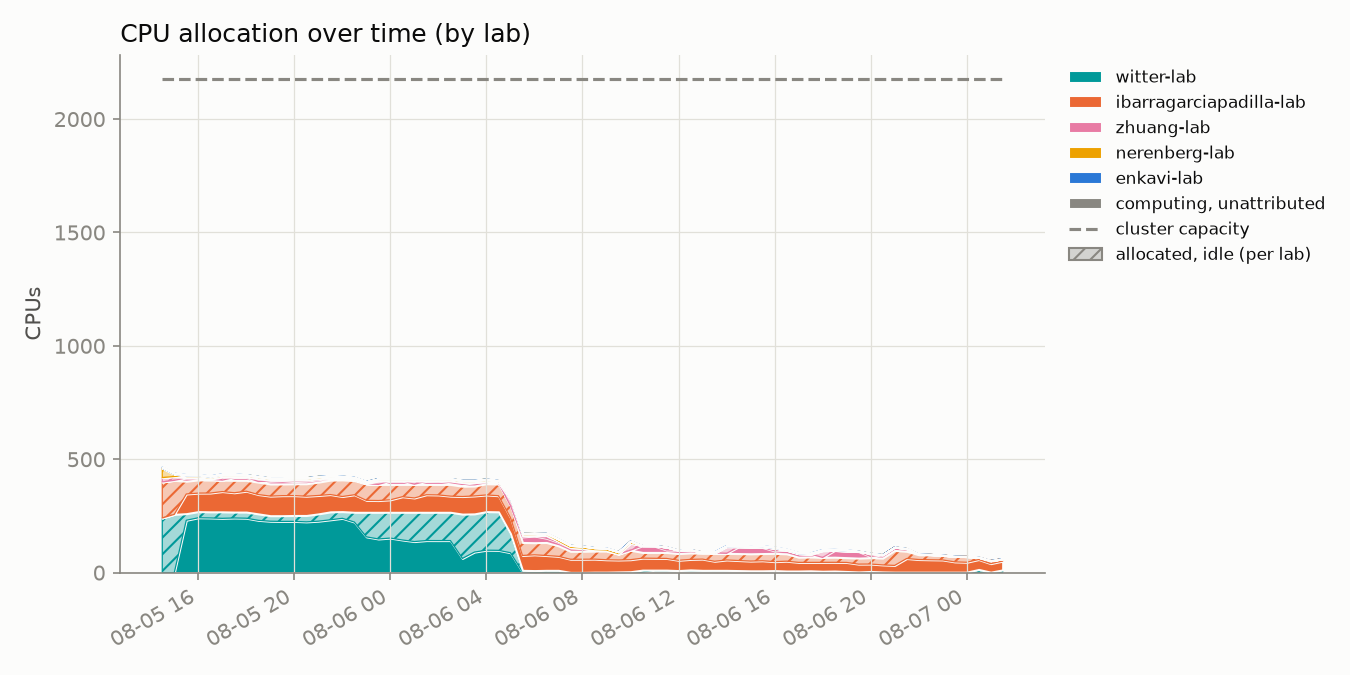
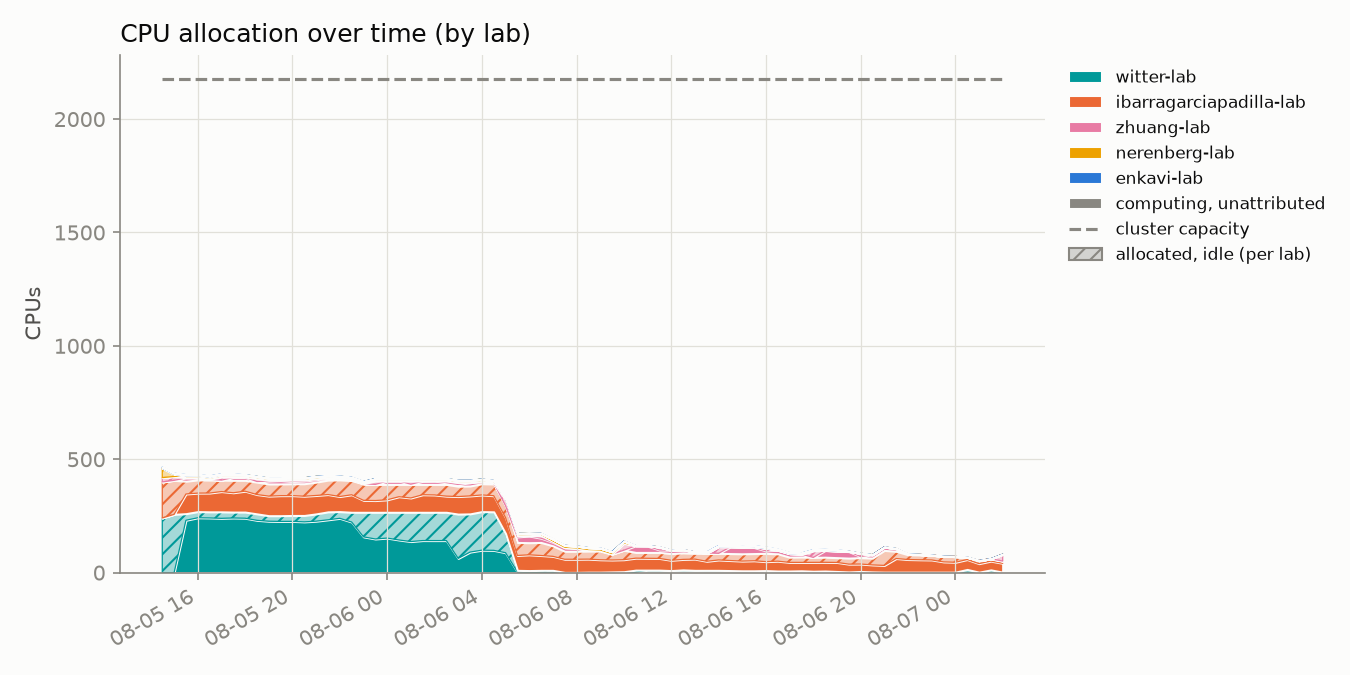
update 2026-08-07T02:00:01-07:00

diff --git a/README.md b/README.md
@@ -2,8 +2,8 @@
 
 Automated GPU/CPU/queue utilization tracker for `hopper.cluster`, updated every 30 minutes by cron. Usernames are anonymized to a stable per-account pseudonym; lab names are real.
 
-Last updated: 2026-08-07T01:30:06-07:00
-Samples: 71 queue snapshots, 71 GPU snapshots
+Last updated: 2026-08-07T02:00:16-07:00
+Samples: 72 queue snapshots, 72 GPU snapshots
 
 ## Resources
 
@@ -17,22 +17,22 @@ Samples: 71 queue snapshots, 71 GPU snapshots
 ## Headline
 
 - **55.9%** of the cluster's 60 GPUs allocated, averaged across all samples
-- **42.9%** average `nvidia-smi` utilization *when* a GPU is allocated to a job
-- **84.8%** average cgroup CPU utilization *when* a CPU is allocated to a job
+- **43.3%** average `nvidia-smi` utilization *when* a GPU is allocated to a job
+- **84.9%** average cgroup CPU utilization *when* a CPU is allocated to a job
 
 ## Per lab / per user
 
 <table>
 <tr><th>Lab</th><th>User</th><th align='right'>GPU-hours allocated</th><th align='right'>CPU-hours allocated</th><th align='right'>GPU utilization</th></tr>
-<tr style='background-color:#fbebf1'><td>zhuang-lab</td><td>user-0db9ced0</td><td align='right'>534.0</td><td align='right'>534.0</td><td align='right'>49%</td></tr>
+<tr style='background-color:#fbebf1'><td>zhuang-lab</td><td>user-0db9ced0</td><td align='right'>549.0</td><td align='right'>549.0</td><td align='right'>49%</td></tr>
 <tr style='background-color:#d8efef'><td>witter-lab</td><td>user-d58f5a15</td><td align='right'>467.5</td><td align='right'>3740.0</td><td align='right'>9%</td></tr>
-<tr style='background-color:#d8efef'><td>witter-lab</td><td>user-554c620c</td><td align='right'>150.0</td><td align='right'>280.5</td><td align='right'>68%</td></tr>
+<tr style='background-color:#d8efef'><td>witter-lab</td><td>user-554c620c</td><td align='right'>151.0</td><td align='right'>281.5</td><td align='right'>69%</td></tr>
 <tr style='background-color:#fcf0d8'><td>nerenberg-lab</td><td>user-6bb5f332</td><td align='right'>40.0</td><td align='right'>200.0</td><td align='right'>71%</td></tr>
+<tr style='background-color:#fce8e0'><td>ibarragarciapadilla-lab</td><td>user-eec7ffae</td><td align='right'>0.0</td><td align='right'>380.5</td><td align='right'>—</td></tr>
+<tr style='background-color:#fce8e0'><td>ibarragarciapadilla-lab</td><td>user-dad71a72</td><td align='right'>0.0</td><td align='right'>6.0</td><td align='right'>—</td></tr>
 <tr style='background-color:#dfeaf8'><td>enkavi-lab</td><td>user-c21bdaa4</td><td align='right'>0.0</td><td align='right'>38.0</td><td align='right'>—</td></tr>
 <tr style='background-color:#fcf0d8'><td>nerenberg-lab</td><td>user-b12dc074</td><td align='right'>0.0</td><td align='right'>16.0</td><td align='right'>—</td></tr>
-<tr style='background-color:#fce8e0'><td>ibarragarciapadilla-lab</td><td>user-dad71a72</td><td align='right'>0.0</td><td align='right'>6.0</td><td align='right'>—</td></tr>
-<tr style='background-color:#fce8e0'><td>ibarragarciapadilla-lab</td><td>user-3cfc41a3</td><td align='right'>0.0</td><td align='right'>3232.5</td><td align='right'>—</td></tr>
-<tr style='background-color:#fce8e0'><td>ibarragarciapadilla-lab</td><td>user-eec7ffae</td><td align='right'>0.0</td><td align='right'>371.0</td><td align='right'>—</td></tr>
+<tr style='background-color:#fce8e0'><td>ibarragarciapadilla-lab</td><td>user-3cfc41a3</td><td align='right'>0.0</td><td align='right'>3247.5</td><td align='right'>—</td></tr>
 </table>
 
 ## Usage over time
@@ -43,7 +43,7 @@ Samples: 71 queue snapshots, 71 GPU snapshots
 
 Solid = utilized by lab, hatched = allocated but idle, gray = usage not traceable to a lab, dashed line = cluster capacity.
 
-Attribution combines `nvidia-smi`'s process listing with Slurm's GPU-to-job binding record; the latter caught **1807** readings the former missed.
+Attribution combines `nvidia-smi`'s process listing with Slurm's GPU-to-job binding record; the latter caught **1829** readings the former missed.
 
 ## Queue
 
@@ -55,13 +55,13 @@ Attribution combines `nvidia-smi`'s process listing with Slurm's GPU-to-job bind
 
 ![CPU usage vs GPU usage, decayed](assets/cpu_gpu_usage.png)
 
-One point per user per snapshot (n=364), usage decayed on Slurm's ~7-day fairshare half-life.
+One point per user per snapshot (n=368), usage decayed on Slurm's ~7-day fairshare half-life.
 
 **GPU usage doesn't count toward priority on this cluster** (`TRESBillingWeights`/`PriorityWeightTRES` unset) - watch the **upper-left**: low CPU usage (high priority) with high GPU usage.
 
 ## Recommendations
 
-1. **Weight GPU usage in fairshare.** `TRESBillingWeights` and `PriorityWeightTRES` are both unset right now, so Slurm's fairshare score only sees CPU-seconds - a job holding 4 idle L40S GPUs costs nothing in priority as long as it isn't also holding CPUs. That's the exact failure mode the scatter above is built to catch (upper-left: low CPU usage, high GPU usage). Fix: `scontrol update partition=main TRESBillingWeights=CPU=1.0,GRES/gpu=<weight>` (or set `PriorityWeightTRES` cluster-wide), then `scontrol reconfigure` - a full `slurmctld` restart also works but drops in-flight priority state. A reasonable starting point for `<weight>` is the CPUs-per-GPU ratio on a GPU node (128 CPUs / 4 GPUs = 32), so one GPU costs as much fairshare as the CPU share it displaces; tune from there against next week's headline numbers (55.9% allocated, 42.9% utilized when allocated, as of this snapshot). The weight value itself is a policy call - loop in whoever owns cluster allocation policy before changing it.
+1. **Weight GPU usage in fairshare.** `TRESBillingWeights` and `PriorityWeightTRES` are both unset right now, so Slurm's fairshare score only sees CPU-seconds - a job holding 4 idle L40S GPUs costs nothing in priority as long as it isn't also holding CPUs. That's the exact failure mode the scatter above is built to catch (upper-left: low CPU usage, high GPU usage). Fix: `scontrol update partition=main TRESBillingWeights=CPU=1.0,GRES/gpu=<weight>` (or set `PriorityWeightTRES` cluster-wide), then `scontrol reconfigure` - a full `slurmctld` restart also works but drops in-flight priority state. A reasonable starting point for `<weight>` is the CPUs-per-GPU ratio on a GPU node (128 CPUs / 4 GPUs = 32), so one GPU costs as much fairshare as the CPU share it displaces; tune from there against next week's headline numbers (55.9% allocated, 43.3% utilized when allocated, as of this snapshot). The weight value itself is a policy call - loop in whoever owns cluster allocation policy before changing it.
 
 2. **Escalate on sustained low utilization** (see table and scatter above). Right now the clearest candidate is `user-d58f5a15` in `witter-lab`: 467.5 GPU-hours allocated at 9% average utilization, i.e. roughly 424 GPU-hours that sat idle instead of going to someone in the queue. Turning that into an automated escalation needs two decisions made up front: a utilization threshold (something like under 20% mean utilization over at least 50 allocated GPU-hours is a defensible starting bar - loose enough to skip short debugging runs, tight enough to catch parked allocations) and a grace period (how many consecutive low-utilization snapshots before it counts as "sustained" rather than a momentary lull between batches). Once those are set, the mechanism can be either soft (a bot that reads `data/gpu_samples.jsonl` and reminds the user/lab by email or Slack) or hard (a Slurm-side QOS penalty, e.g. `sacctmgr modify qos <qos> set Priority-=<n>`, applied after N consecutive offending snapshots). Neither exists yet - today the table and scatter above are a read-only signal, not an enforced policy.
 
